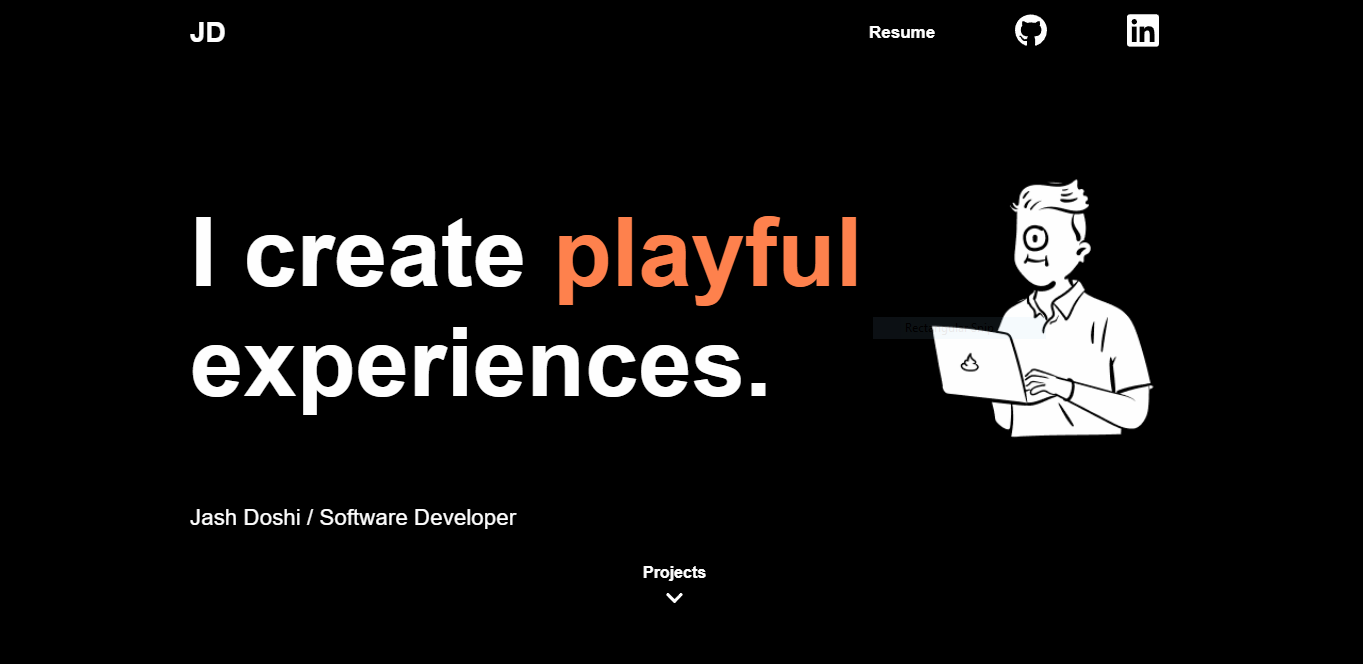
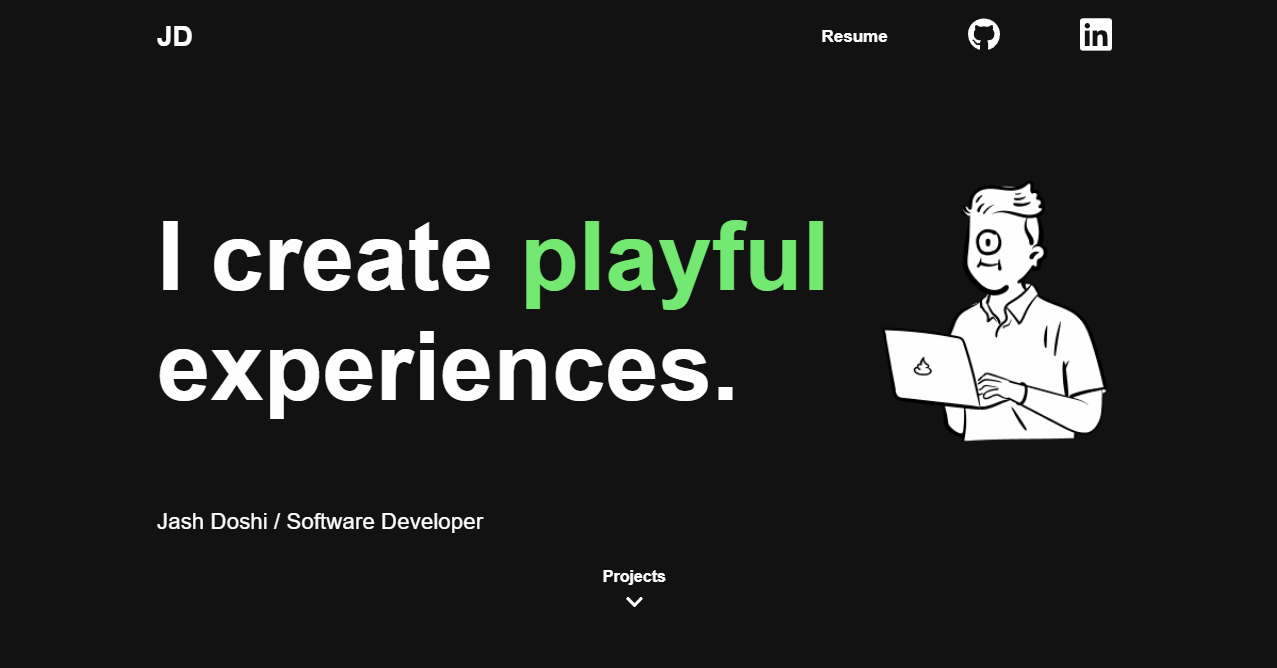
bg color changed

diff --git a/src/components/Project/Project.css b/src/components/Project/Project.css
@@ -12,11 +12,28 @@
     overflow-x: hidden;
 }
 
-img{
+.project-image{
     width: 700px;
     height: 400px;
-    border-radius: 1rem;
+    border-radius: 20px;
+    transition: box-shadow 0.3s ease;
+    box-shadow: 0 2.8px 2.2px rgba(211, 211, 211, 0.02),
+          0 6.7px 5.3px rgba(211, 211, 211, 0.028),
+          0 12.5px 10px rgba(211, 211, 211, 0.035),
+          0 22.3px 17.9px rgba(211, 211, 211, 0.042),
+          0 41.8px 33.4px rgba(211, 211, 211, 0.05),
+          0 100px 80px rgba(211, 211, 211, 0.07);
+    cursor: pointer;
+    
 }
+.project-image:hover {
+    box-shadow: 0 2.8px 2.2px rgba(256, 256, 256, 0.02),
+      0 6.7px 5.3px rgba(256, 256, 256, 0.028),
+      0 12.5px 10px rgba(256, 256, 256, 0.035),
+      0 22.3px 17.9px rgba(256, 256, 256, 0.042),
+      0 41.8px 33.4px rgba(256, 256, 256, 0.05),
+      0 100px 80px rgba(256, 256, 256, 0.07);
+  }
 h2{
     font-size: 32px;
 }
@@ -45,7 +62,7 @@ h3{
 button{
     font-weight: 300;
     background-color: white;
-    color: black;
+    color: #121212;
     height: 40px;
     width: 100px;
     border-radius: 20px;
@@ -62,7 +79,7 @@ button:hover{
 
 
 @media(max-width:1180px){
-    img{
+    .project-image{
         width: 500px;
         height: 300px;
     }
@@ -93,7 +110,7 @@ button:hover{
 
 
 @media(max-width:885px){
-    img{
+    .project-image{
         width: 300px;
         height: 200px;}
     .project{

diff --git a/src/components/Intro/Intro.css b/src/components/Intro/Intro.css
@@ -6,13 +6,13 @@
 
 body{
    margin:0;
-   background-color: black;
+   background-color: #121212;
 }
 
 .navbar{
    padding-left: 12rem;
    width: 85%;
-   background-color: black;
+   background-color: #121212;
    color: white;
    display: flex;
    justify-content: space-between;
@@ -123,7 +123,7 @@ svg{
   cursor: pointer;
   display: block;
   margin: 2rem auto;
-  background-color: black;
+  background-color: #121212;
   font-size:1rem;
   font-weight: 700;
   border: none;

diff --git a/src/components/Splash/Splash.css b/src/components/Splash/Splash.css
@@ -10,7 +10,7 @@
     width: 100px;
     height: 100px;
     border-radius: 100%;
-    background-color: black;
+    background-color: #121212;
     animation: zoom 1s 1.8s;
     animation-fill-mode: both;
 }
